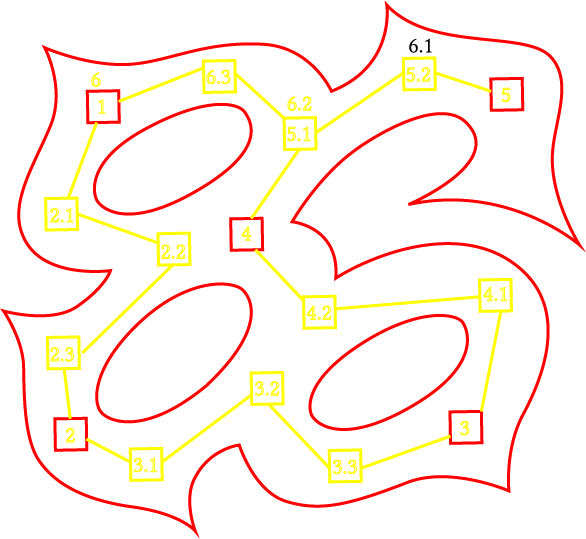
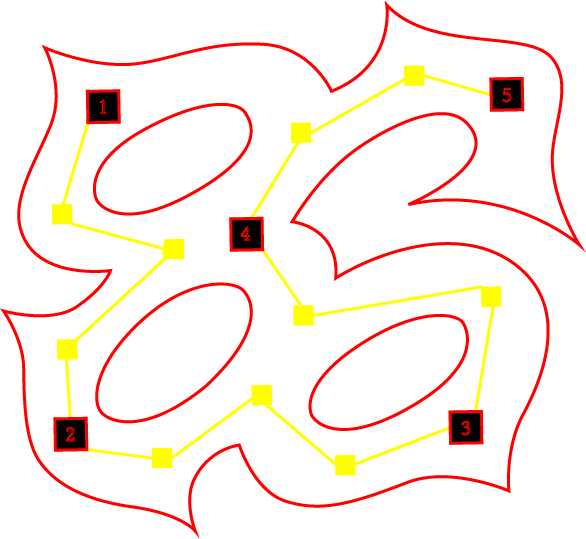
map updates

diff --git a/public/index.html b/public/index.html
@@ -157,6 +157,9 @@
                                         <p>   log 5           03:00:00         13-05-22<br></p>
                                             <p>   log 6           03:00:00         13-05-22<br></p>
                         </div>
+                        <div class="section" id="back" onclick="backAgain()">
+                           back
+                            </div>
                         <div class="section" id="zoommap">
                         </div>
                     </div>
@@ -169,69 +172,76 @@
                 </div>
                     <!-- <input id="icon" width="20%" class="on-location-track" type="image" src="img/868.png"  onclick="playMusic()" style="visibility: hidden; z-index: 2"/>
                     <input id="icon" width="22%" class="nav-track" type="image" src="img/868.png"  onclick="playMusic1()" style="visibility: visible;"/>  -->
-                <div class="section">
-                   <!-- <p onclick="openMap()"> MAP:</p>
-                   <p onclick="closeMap()"> minimize</p> -->
+                <div class="section" id="dreammap">
+                   <p onclick="openMap()"> MAP:</p>
+                   <p onclick="closeMap()"> minimize</p>
                     <!-- <img id="map" src="img/abstract_map.png" alt="map" usemap="#workmap" width="70%">     
                     <map name="workmap">
                     <area shape="circle" coords="337, 300, 44" alt="Computer" onclick="playMusic()"  href="#">
                     </map> -->
                     
-                    <img src="img/map-markers.png" alt="map" usemap="#map">
+                    <img src="img/map-markers.png" alt="map" usemap="#map" >
 
                     <map name="map">
                       <area shape="circle" coords="45,45,15" alt="node01" onclick="breadCrumb1()" href="#">
                       <area shape="circle" coords="20, 85,15" alt="node01" onclick="breadCrumb1()" href="#">
                       <area shape="circle" coords="80,110,15" alt="node01" onclick="breadCrumb2()" href="#">
-                      <area shape="circle" coords="115,100,15" alt="node01" onclick="breadCrumb3()" href="#">
-                      <area shape="circle" coords="80,110,15" alt="node01" onclick="breadCrumb4()" href="#">
-                      <area shape="circle" coords="115,100,15" alt="node01" onclick="breadCrumb5()" href="#">
-                      <area shape="circle" coords="80,110,15" alt="node01" onclick="breadCrumb6()" href="#">
-                      <area shape="circle" coords="115,100,15" alt="node01" onclick="breadCrumb7()" href="#">
-                      <area shape="circle" coords="80,110,15" alt="node01" onclick="breadCrumb8()" href="#">
-                      <area shape="circle" coords="115,100,15" alt="node01" onclick="breadCrumb9()" href="#">
-                      <area shape="circle" coords="80,110,15" alt="node01" onclick="breadCrumb10()" href="#">
-                      <area shape="circle" coords="80,110,15" alt="node01" onclick="breadCrumb11()" href="#">
+                      <area shape="circle" coords="115,100,15" alt="node01" onclick="breadCrumb3()" href="#">     
+                      <area shape="circle" coords="20,130,15" alt="node01" onclick="breadCrumb4()" href="#">
+                      <area shape="circle" coords="65,190,15" alt="node01" onclick="breadCrumb5()" href="#">
+                      <area shape="circle" coords="120,160,15" alt="node01" onclick="breadCrumb6()" href="#">
+                      <area shape="circle" coords="145,185,15" alt="node01" onclick="breadCrumb7()" href="#">
+                      <area shape="circle" coords="210,115,15" alt="node01" onclick="breadCrumb8()" href="#">
+                      <area shape="circle" coords="125,125,15" alt="node01" onclick="breadCrumb9()" href="#">
+                      <area shape="circle" coords="120,40,15" alt="node01" onclick="breadCrumb10()" href="#">
+                      <area shape="circle" coords="180,30,15" alt="node01" onclick="breadCrumb11()" href="#">
                     </map> 
                    
 
                     <script>
-                        alert("⇶ turn phone horizonally ⇶  use mobile data ⇶ put on headphones ⇶  allow location access ⇶ don't attract attention ⇶ bon vovage ⇶ ");
+                        alert("⇶ turn phone horizonally ⇶  use mobile data ⇶ turn sound on ⇶  allow location access ⇶ don't attract attention ⇶ bon vovage ⇶ ");
                         zoommap = document.querySelector('#zoommap');
                         log = document.querySelector('#log');
+                        back = document.querySelector('#back');
 
                         function openMap(){
                             
-                            // $("#map").toggleClass("zoom");
+                            $("#dreammap").toggleClass("zoom");
 
-                            if (zoommap.style.visibility = "hidden"){
-                                zoommap.style.visibility = "visible";
-                            }
+                            // if (zoommap.style.visibility = "hidden"){
+                            //     zoommap.style.visibility = "visible";
+                            // }
                         }
 
                         function closeMap(){                          
-                            if (zoommap.style.visibility = "visible"){
-                                zoommap.style.visibility = "hidden";
-                            }                         
+                            // if (zoommap.style.visibility = "visible"){
+                            //     zoommap.style.visibility = "hidden";
+                            // }                         
                         }
 
                         function showLog(){                          
                            log.style.visibility = "visible";
-                                              $("#log").text("log 1   222  33");
+                           back.style.visibility = "visible";
+                           $("#log").text("log 1   222  33");
                          
                         }
 
                         function showHelp(){                          
                            log.style.visibility = "visible";
                            $("#log").text("Locate the closest module by clicking on the landmarks on the map and moving accordingly. When set to the correct frequency, the module will reveal the local port code after a few seconds. The shape of the map is abstract and should not be solely used for navigation.");
-                            
+                           back.style.visibility = "visible";
                         }
 
                         function showAbout(){  
                             log.style.visibility = "visible";                        
                             $("#log").text("868 MHz is a hybrid reality game running on the same standardized frequency as the LoRa gateways of The Things Network. Chase the electric currents of the asphalt to locate gateways and encounter a being which has nested itself beneath the city streets, all the way down the power lines woven amidst its whirring epicenter. Early release for Tec Art 2022, in progress master graduation work by Experimental Publishing student Louisa Teichmann. Module cases designed and 3D printed by Roos Groothuizen. Sound design by Kevin Stam. Logo design by Camilo García A. Realised in support by Planetart, TETEM, Joseph Knierzinger, Michael Murthaugh, Cristina Cochior and in inspiration and conversation with Mika Motskobili and with mental support by Micah Snijkers. Don't hate the game, hate the players. Just kidding, I hope you're finding your way ok.");
-                          
+                            back.style.visibility = "visible";
                             
+                        }
+
+                        function backAgain(){  
+                            log.style.visibility = "hidden";                        
+                            back.style.visibility = "hidden";
                         }
 
                     </script>

diff --git a/public/style.css b/public/style.css
@@ -41,16 +41,18 @@ body {
   /* height: 60vh; */
 }
 
-#zoom{
+.zoom{
   position: fixed;
   width: auto;
-  /* margin-left: auto;
-  margin-right: auto; */
-  /* margin-top:2.5vh; */
-  top: 10px;
-  margin-bottom:2.5vh;
-  visibility: hidden; 
-  /* height: 60vh; */
+  width: 68%;
+  height: 100vh;
+  /* border: 2px solid #c9cdc0; */
+  border-radius: 2px;
+  /* margin-right:3px; */
+  padding: 5px;
+  padding-left: 10px;
+  padding-top: 10px;
+  background-color:black;
 }
 
 #zoommap>img{
@@ -129,3 +131,8 @@ button{
 #log{
   visibility: hidden;
 }
+
+#back{
+  visibility: hidden;
+}
+
